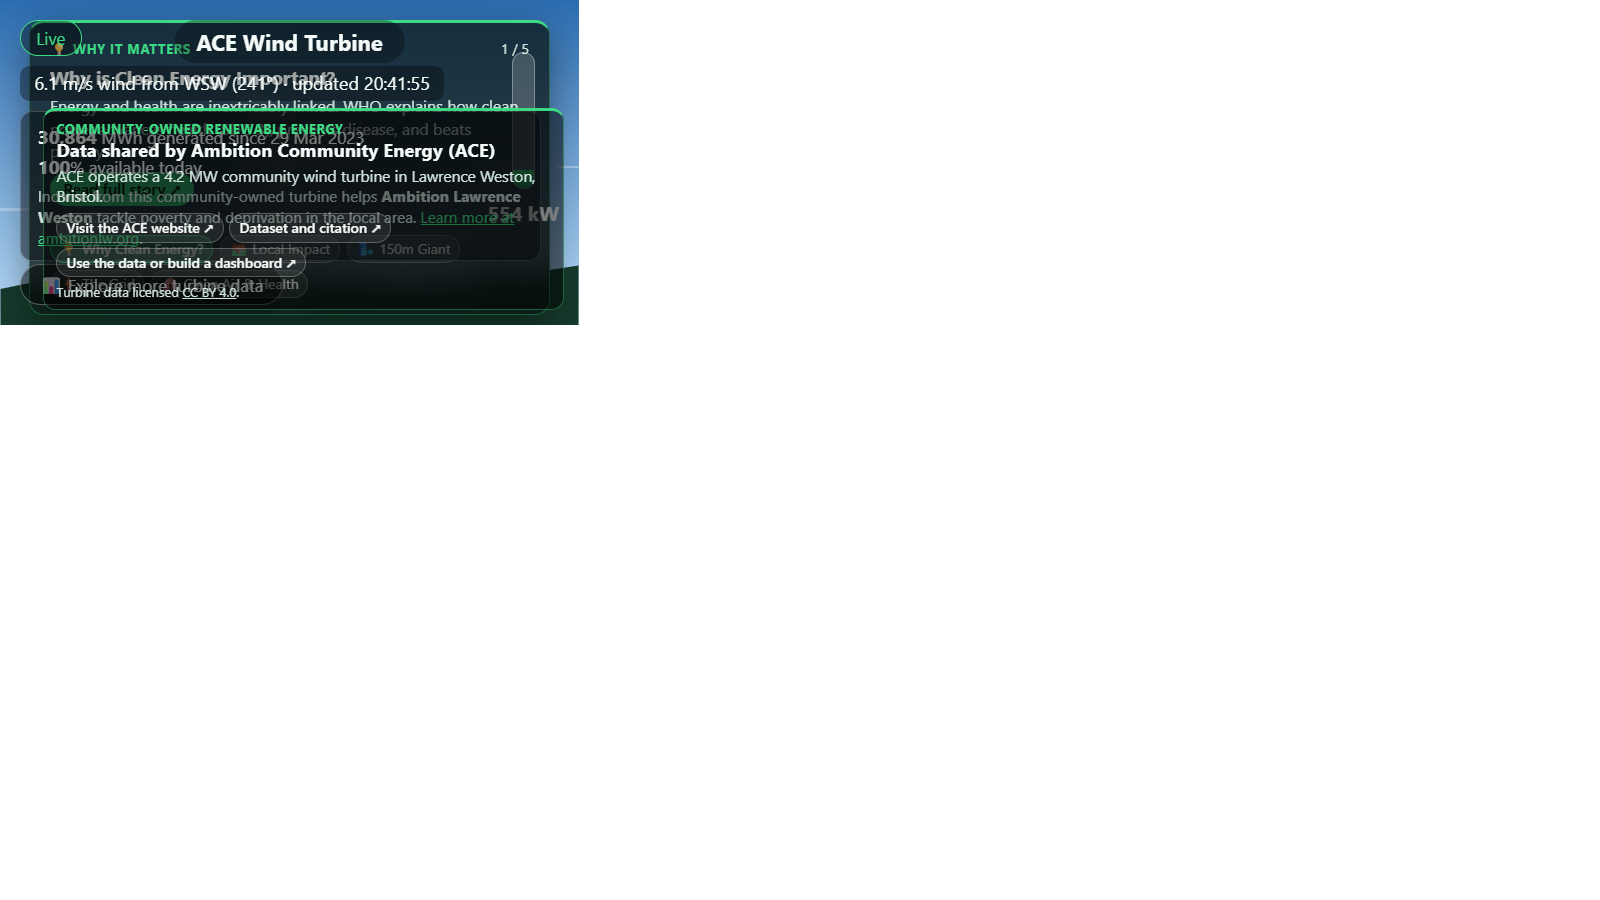
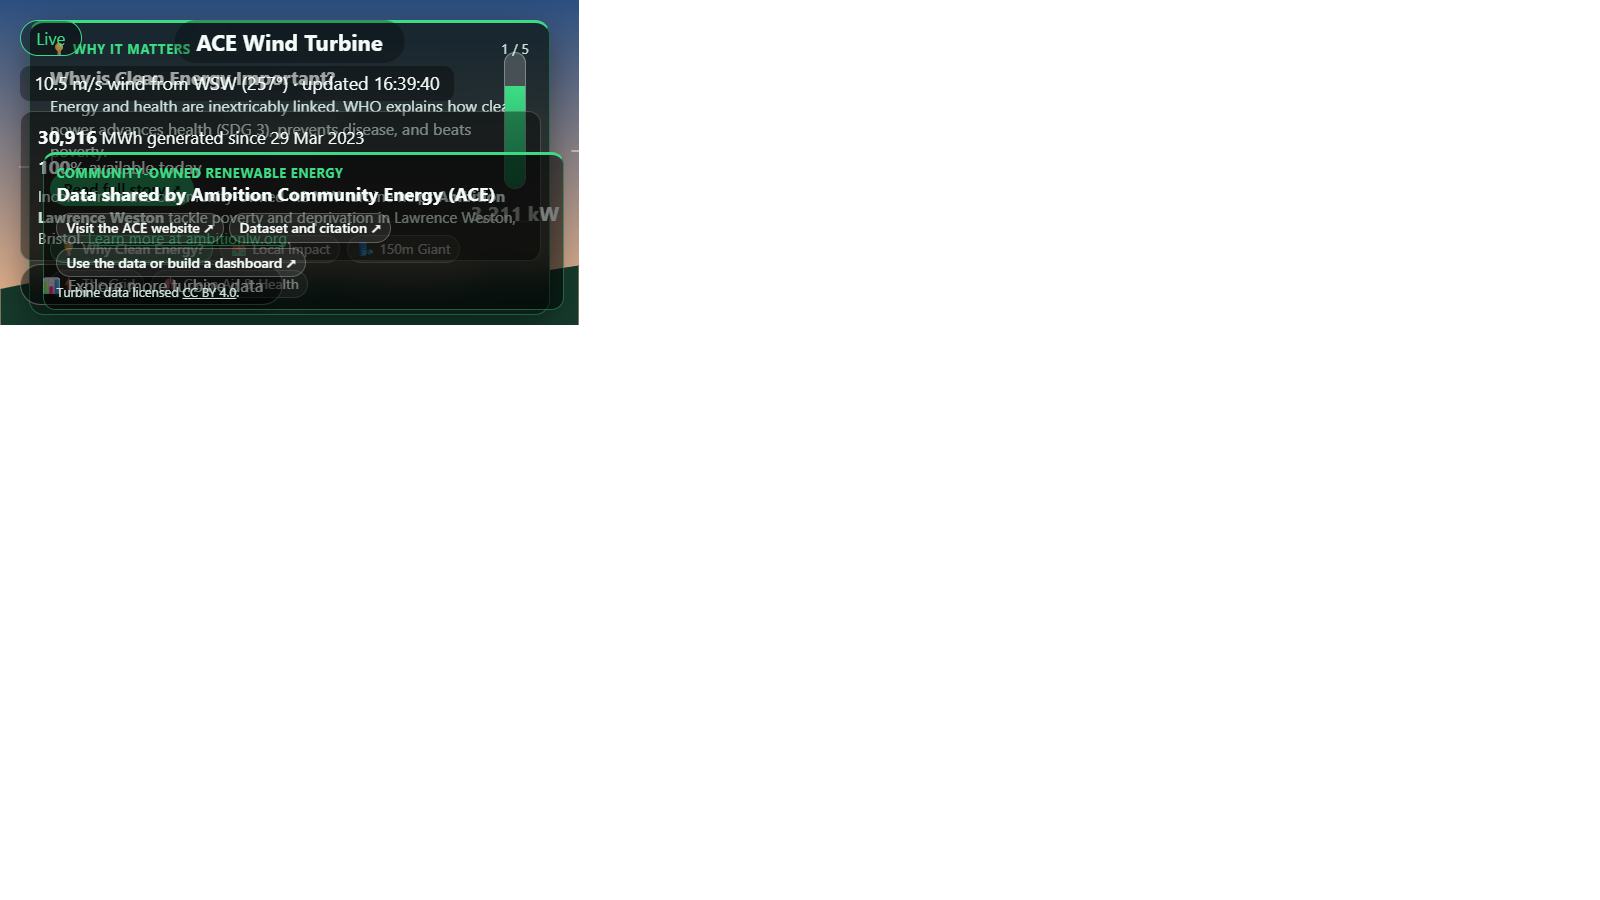
concept-7: clarify 4.2 MW turbine and Lawrence Weston in mission statement and clean up credits box

Changed region(s): [[0.0, 0.0, 0.375, 0.3422]]

diff --git a/solutions/concept-7-live-digital-twin-popups/index.html b/solutions/concept-7-live-digital-twin-popups/index.html
@@ -86,8 +86,8 @@
         <div class="info-stat"><strong id="lifetime-energy">--</strong> MWh generated since 29 Mar 2023</div>
         <div class="info-stat"><strong id="availability-today">--</strong>% available today</div>
         <p class="mission">
-          Income from this community-owned turbine helps <strong>Ambition Lawrence Weston</strong>
-          tackle poverty and deprivation in the local area.
+          Income from this community-owned 4.2 MW turbine helps <strong>Ambition Lawrence Weston</strong>
+          tackle poverty and deprivation in Lawrence Weston, Bristol.
           <a href="https://www.ambitionlw.org/" target="_blank" rel="noopener">Learn more at ambitionlw.org</a>.
         </p>
       </div>
@@ -125,9 +125,6 @@
     <div class="credits-box">
       <p class="credits-label">Community-owned renewable energy</p>
       <p class="credits-title">Data shared by Ambition Community Energy (ACE)</p>
-      <p class="credits-text">
-        ACE operates a 4.2 MW community wind turbine in Lawrence Weston, Bristol.
-      </p>
       <div class="credits-links">
         <a class="credits-link" href="https://ambitioncommunityenergy.org/" target="_blank" rel="noopener">Visit the ACE website ↗</a>
         <a class="credits-link" href="https://doi.org/10.5281/zenodo.22662372" target="_blank" rel="noopener">Dataset and citation ↗</a>

diff --git a/solutions/concept-7-live-digital-twin-popups/styles.css b/solutions/concept-7-live-digital-twin-popups/styles.css
@@ -579,7 +579,7 @@ body {
 }
 
 .credits-title {
-  margin: 0 0 0.25em;
+  margin: 0 0 0.45em;
   font-size: 0.92rem;
   font-weight: 700;
   line-height: 1.2;
